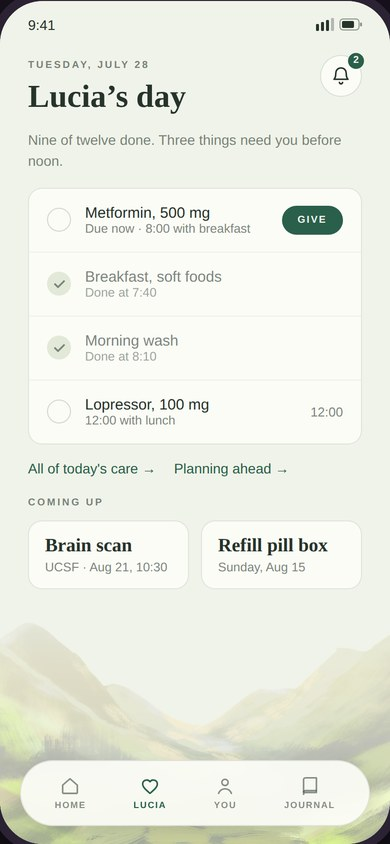
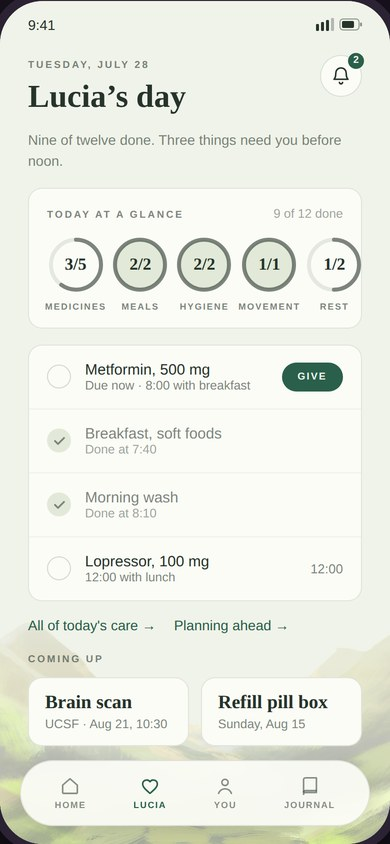
Add files via upload

diff --git a/proto/passage-app.html b/proto/passage-app.html
@@ -305,7 +305,7 @@ body.embed .device{box-shadow:0 18px 44px rgba(0,0,0,.45)}
               <span style="position: absolute; top: -3px; right: -3px; width: 16px; height: 16px; border-radius: 999px; background: #2A5F4B; color: #F2F5EC; font-size: 10px; font-weight: 600; display: flex; align-items: center; justify-content: center">2</span>
             </div>
           </div>
-          <p style="margin: 0; font-size: 14px; line-height: 1.5; color: rgba(38,51,43,0.6)">Nine of twelve done. Three things need you before noon.</p>
+          <p style="margin: 0; font-size: 14px; line-height: 1.5; color: rgba(38,51,43,0.6)">Nine of twelve done. Three things need you before noon.</p><div style="border-radius:14px;background:#FBFCF6;border:1px solid rgba(38,51,43,0.12);padding:18px 16px 16px"><div style="display:flex;justify-content:space-between;align-items:baseline;margin-bottom:14px;padding:0 2px"><span style="font-family:var(--font-label);font-size:10px;font-weight:700;letter-spacing:0.2em;color:rgba(38,51,43,0.6)">TODAY AT A GLANCE</span><span style="font-size:12.5px;color:rgba(38,51,43,0.45)">9 of 12 done</span></div><div style="display:flex;justify-content:space-between;gap:4px"><div style="display:flex;flex-direction:column;align-items:center;gap:7px"><div style="position:relative;width:60px;height:60px"><svg width="60" height="60" viewBox="0 0 60 60" style="display:block;transform:rotate(-90deg)"><circle cx="30" cy="30" r="25" fill="none" stroke="rgba(38,51,43,0.10)" stroke-width="4"></circle><circle cx="30" cy="30" r="25" fill="none" stroke="rgba(38,51,43,0.55)" stroke-width="4" stroke-linecap="round" stroke-dasharray="94.2 157.1"></circle></svg><span style="position:absolute;inset:0;display:flex;align-items:center;justify-content:center;font-family:var(--font-display);font-size:17px;font-weight:600;color:#26332B">3/5</span></div><span style="font-family:var(--font-label);font-size:9px;font-weight:700;letter-spacing:0.14em;color:rgba(38,51,43,0.6)">MEDICINES</span></div><div style="display:flex;flex-direction:column;align-items:center;gap:7px"><div style="position:relative;width:60px;height:60px"><svg width="60" height="60" viewBox="0 0 60 60" style="display:block;transform:rotate(-90deg)"><circle cx="30" cy="30" r="25" fill="#E2E9D8" stroke="rgba(38,51,43,0.10)" stroke-width="4"></circle><circle cx="30" cy="30" r="25" fill="none" stroke="rgba(38,51,43,0.55)" stroke-width="4" stroke-linecap="round" stroke-dasharray="157.1 157.1"></circle></svg><span style="position:absolute;inset:0;display:flex;align-items:center;justify-content:center;font-family:var(--font-display);font-size:17px;font-weight:600;color:#26332B">2/2</span></div><span style="font-family:var(--font-label);font-size:9px;font-weight:700;letter-spacing:0.14em;color:rgba(38,51,43,0.6)">MEALS</span></div><div style="display:flex;flex-direction:column;align-items:center;gap:7px"><div style="position:relative;width:60px;height:60px"><svg width="60" height="60" viewBox="0 0 60 60" style="display:block;transform:rotate(-90deg)"><circle cx="30" cy="30" r="25" fill="#E2E9D8" stroke="rgba(38,51,43,0.10)" stroke-width="4"></circle><circle cx="30" cy="30" r="25" fill="none" stroke="rgba(38,51,43,0.55)" stroke-width="4" stroke-linecap="round" stroke-dasharray="157.1 157.1"></circle></svg><span style="position:absolute;inset:0;display:flex;align-items:center;justify-content:center;font-family:var(--font-display);font-size:17px;font-weight:600;color:#26332B">2/2</span></div><span style="font-family:var(--font-label);font-size:9px;font-weight:700;letter-spacing:0.14em;color:rgba(38,51,43,0.6)">HYGIENE</span></div><div style="display:flex;flex-direction:column;align-items:center;gap:7px"><div style="position:relative;width:60px;height:60px"><svg width="60" height="60" viewBox="0 0 60 60" style="display:block;transform:rotate(-90deg)"><circle cx="30" cy="30" r="25" fill="#E2E9D8" stroke="rgba(38,51,43,0.10)" stroke-width="4"></circle><circle cx="30" cy="30" r="25" fill="none" stroke="rgba(38,51,43,0.55)" stroke-width="4" stroke-linecap="round" stroke-dasharray="157.1 157.1"></circle></svg><span style="position:absolute;inset:0;display:flex;align-items:center;justify-content:center;font-family:var(--font-display);font-size:17px;font-weight:600;color:#26332B">1/1</span></div><span style="font-family:var(--font-label);font-size:9px;font-weight:700;letter-spacing:0.14em;color:rgba(38,51,43,0.6)">MOVEMENT</span></div><div style="display:flex;flex-direction:column;align-items:center;gap:7px"><div style="position:relative;width:60px;height:60px"><svg width="60" height="60" viewBox="0 0 60 60" style="display:block;transform:rotate(-90deg)"><circle cx="30" cy="30" r="25" fill="none" stroke="rgba(38,51,43,0.10)" stroke-width="4"></circle><circle cx="30" cy="30" r="25" fill="none" stroke="rgba(38,51,43,0.55)" stroke-width="4" stroke-linecap="round" stroke-dasharray="78.5 157.1"></circle></svg><span style="position:absolute;inset:0;display:flex;align-items:center;justify-content:center;font-family:var(--font-display);font-size:17px;font-weight:600;color:#26332B">1/2</span></div><span style="font-family:var(--font-label);font-size:9px;font-weight:700;letter-spacing:0.14em;color:rgba(38,51,43,0.6)">REST</span></div></div></div>
           <div style="border-radius: 14px; background: #FBFCF6; border: 1px solid rgba(38,51,43,0.12); overflow: hidden">
             <div style="display: flex; align-items: center; gap: 14px; padding: 16px 18px; border-bottom: 1px solid rgba(38,51,43,0.06)">
               <div style="width: 24px; height: 24px; border-radius: 999px; border: 1.5px solid rgba(38,51,43,0.18); flex: 0 0 auto"></div>
@@ -785,7 +785,9 @@ const NAMES = {
   '14': "Article",
   '15': "Profile"
 };
-const ORDER = Object.keys(NAMES);
+// NB: never Object.keys() here — JS hoists integer-like keys, so '10'..'15'
+// would jump ahead of '01' and the prototype would open on the meditation player.
+const ORDER = ['01','02','03','04','05','06','07','08','09','10','11','12','13','14','15'];
 let current = ORDER[0];
 const dev=document.getElementById('device'), stack=document.getElementById('stack'), toastEl=document.getElementById('toast');
 let tmr=null;

diff --git a/styles.css b/styles.css
@@ -5,9 +5,9 @@
    law 3 · reversal: long reading lives in an ivory well
    ============================================================ */
 
-@font-face{font-family:'Space Grotesk';src:url('fonts/space-grotesk-latin-400-normal.woff2') format('woff2');font-weight:400;font-style:normal;font-display:swap}
-@font-face{font-family:'Space Grotesk';src:url('fonts/space-grotesk-latin-500-normal.woff2') format('woff2');font-weight:500;font-style:normal;font-display:swap}
-@font-face{font-family:'IBM Plex Mono';src:url('fonts/ibm-plex-mono-latin-400-normal.woff2') format('woff2');font-weight:400;font-style:normal;font-display:swap}
+@font-face{font-family:'Space Grotesk';src:url('fonts/space-grotesk-latin-400-normal.woff2') format('woff2'),url('space-grotesk-latin-400-normal.woff2') format('woff2');font-weight:400;font-style:normal;font-display:swap}
+@font-face{font-family:'Space Grotesk';src:url('fonts/space-grotesk-latin-500-normal.woff2') format('woff2'),url('space-grotesk-latin-500-normal.woff2') format('woff2');font-weight:500;font-style:normal;font-display:swap}
+@font-face{font-family:'IBM Plex Mono';src:url('fonts/ibm-plex-mono-latin-400-normal.woff2') format('woff2'),url('ibm-plex-mono-latin-400-normal.woff2') format('woff2');font-weight:400;font-style:normal;font-display:swap}
 
 :root{
   --ground:#17121C; --panel:#241D2B; --screen:#141019; --tile:#1D1724;

diff --git a/work-passage.html b/work-passage.html
@@ -148,7 +148,7 @@
   <div><img src="assets/passage26/03-about-you.jpg" alt="Passage 2026, step 2 screen" loading="lazy"><span class="meta">step 2 · about you</span></div>
   <div><img src="assets/passage26/04-lucias-routine.jpg" alt="Passage 2026, step 3 screen" loading="lazy"><span class="meta">step 3 · her routine</span></div>
   <div><img src="assets/passage26/05-home.jpg" alt="Passage 2026, home screen" loading="lazy"><span class="meta">home · affirmation, then what is next</span></div>
-  <div><img src="assets/passage26/06-lucia.jpg" alt="Passage 2026, lucia screen" loading="lazy"><span class="meta">lucia · today, and what is coming</span></div>
+  <div><img src="assets/passage26/06-lucia.jpg" alt="Passage 2026, lucia screen" loading="lazy"><span class="meta">lucia · today at a glance, then the list</span></div>
   <div><img src="assets/passage26/07-medicines.jpg" alt="Passage 2026, medicines screen" loading="lazy"><span class="meta">medicines · doses grouped by time</span></div>
   <div><img src="assets/passage26/08-planning-ahead.jpg" alt="Passage 2026, planning ahead screen" loading="lazy"><span class="meta">planning ahead · at your own pace</span></div>
   <div><img src="assets/passage26/09-for-me.jpg" alt="Passage 2026, for me screen" loading="lazy"><span class="meta">for me · the caregiver tab</span></div>
